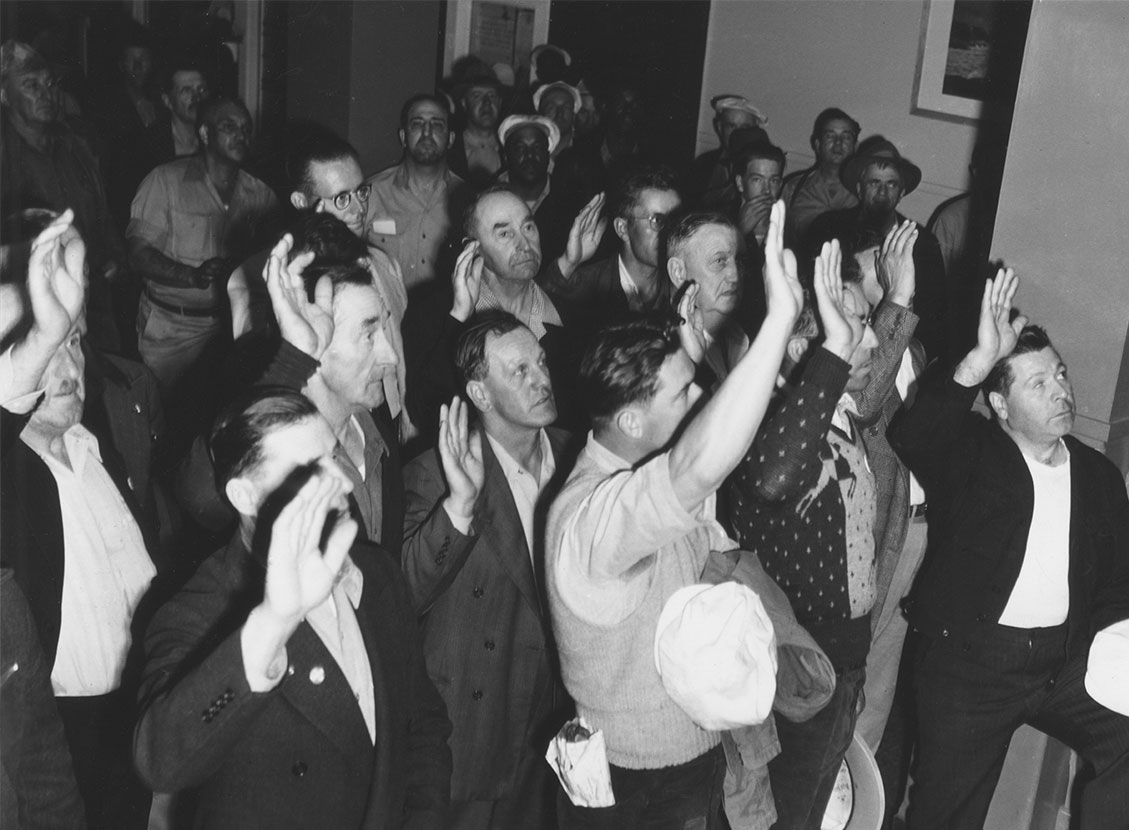
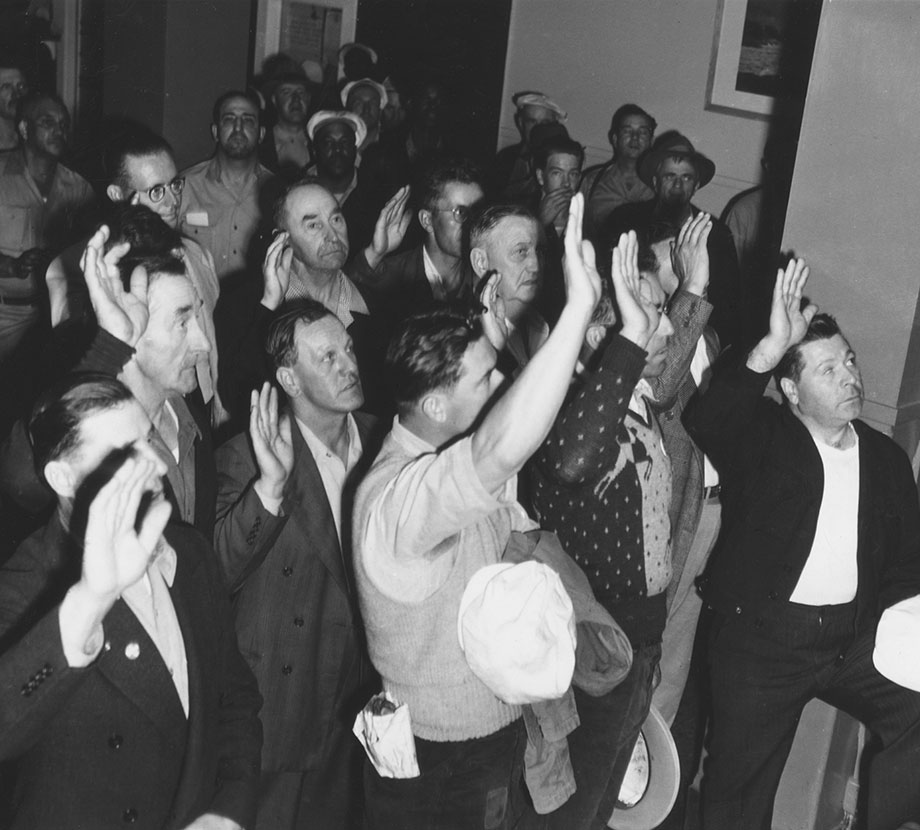
finished all content updates to about ILWU section, fixed positioning of text CSS

diff --git a/app/css/style.css b/app/css/style.css
@@ -571,6 +571,8 @@ footer {
       text-align: right;
       margin-top: 10px;
       font-size: 20px; }
+  #section-detail .visuals.ilwu {
+    width: 1000px; }
   #section-detail .sidebar {
     float: right;
     width: 600px;
@@ -619,5 +621,12 @@ footer {
           float: left; }
         #section-detail .sidebar .description #backButton p {
           width: 200px; }
+  #section-detail .sidebar.ilwu {
+    width: 900px; }
+    #section-detail .sidebar.ilwu .description {
+      width: 770px; }
+
+#section-detail.ilwu.visuals {
+  width: 1000px; }
 
 /*# sourceMappingURL=style.css.map */

diff --git a/app/js/aboutILWUController.js b/app/js/aboutILWUController.js
@@ -33,14 +33,15 @@ angular
             title:'Who the ILWU Represents', 
             description:'partial', 
             imageID:'representation', 
-            caption:'A longshore worker on the docks in Southern California (ILWU Archives)'
+            caption:'A longshore worker on the docks in Southern California (ILWU Archives)',
         },
         {
             id: 3,
             title:'Ten Guiding Principles', 
             description:'partial', 
             imageID:'principles', 
-            caption:''
+            caption:'',
+            width:'700'
         }
     ];
 

diff --git a/app/partials/about_ilwu/synopsis.html b/app/partials/about_ilwu/synopsis.html
@@ -1,7 +1,7 @@
 <!-- ABOUT ILWU DESCRIPTION-->
-<div id="section-detail">
+<div id="section-detail" class="ilwu">
     <div>
-        <div class="visuals">
+        <div class="visuals ilwu">
 
             <div class="photo">
                 
@@ -10,7 +10,7 @@
 
             </div>
         </div>
-    <div class="sidebar">
+    <div class="sidebar ilwu">
         <div class="intro">
             <h2>{{ilwuPages[ilwuId-1].title}}</h2>
         </div>

diff --git a/app/css/_section-detail.scss b/app/css/_section-detail.scss
@@ -1,3 +1,5 @@
+
+
 #section-detail {
 		background-color: rgba(0,0,0,.8);
 		padding-top: 0px;
@@ -43,6 +45,12 @@
 			}
 		}
 
+
+		.visuals.ilwu{
+			width: 1000px;
+		}
+
+		
 
 		.sidebar {
 			float: right;
@@ -110,4 +118,17 @@
 				}
 			}
 		}
+
+		.sidebar.ilwu{
+			width:900px;
+			.description{
+				width: 770px;
+			}
+		}
 	}
+
+#section-detail.ilwu.visuals{
+			width: 1000px;
+		}
+
+	
